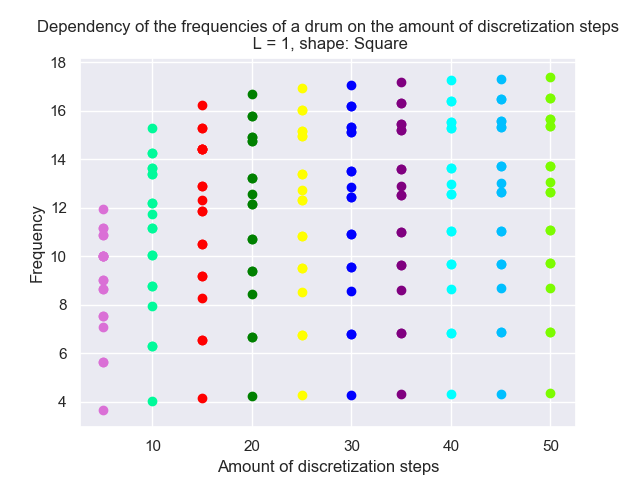
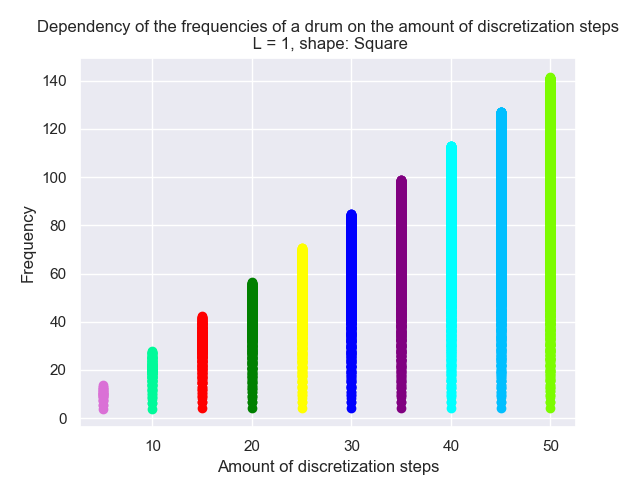
merging?

diff --git a/set3/diffusion.py b/set3/diffusion.py
@@ -13,10 +13,60 @@ def main():
     L = 4
     N = 40
 
-    M, circle = make_circle_matrix(N)
-    beginstate = initial_conditions(N)
+    M, circle = make_circle_matrix(L, N)
+    beginstate, vector_b = initial_conditions(N)
 
-def make_circle_matrix(N, L):
+    plt.imshow(beginstate, origin='lower')
+    plt.grid(False)
+    plt.colorbar()
+    plt.show()
+
+    # use standing vector
+    vector_c = sp.linalg.solve(M, vector_b.T)
+
+    # reshape vector_c
+    end_state = np.reshape(vector_b, (N, N))
+
+    print(end_state)
+
+    # show endstate
+    plt.imshow(end_state, origin='lower')
+    plt.grid(False)
+    plt.colorbar()
+    plt.show()
+
+def make_square_matrix(L, N):
+    """ This is a function that makes the matrix of a square. """
+    dimension = N**2
+    M = np.zeros((dimension, dimension))
+    dx = (L/N)
+
+    outer_diagonal = N
+    inner_diagonal = 1
+
+    for i in range(dimension):
+        try:
+            M[outer_diagonal, i] = 1 * (1/dx**2)
+            M[i, outer_diagonal] = 1 * (1/dx**2)
+        except IndexError:
+            pass
+
+        try:
+            if not inner_diagonal % N == 0:
+                M[inner_diagonal, i] = 1 * (1/dx**2)
+                M[i, inner_diagonal] = 1 * (1/dx**2)
+        except IndexError:
+            pass
+
+        outer_diagonal += 1
+        inner_diagonal += 1
+
+    np.fill_diagonal(M, -4 * (1/dx**2))
+
+    return M
+
+
+def make_circle_matrix(L, N):
     radius = L/2
 
     circle = np.zeros((N,N))
@@ -30,6 +80,7 @@ def make_circle_matrix(N, L):
 
             if distance < radius:
                 circle[i, j] = 1
+                
     print(circle)
     M = make_square_matrix(L, N)
 
@@ -42,16 +93,21 @@ def make_circle_matrix(N, L):
         if circle[row, column] == 0:
             for j in range(len(M)):
                 if not i == j:
-                    M[i, j] = 1
+                    M[i, j] = 0
+
     print(M)
     return M, circle
 
-def initial_conditions():
+def initial_conditions(N):
     # start at 6, 12
     conc_matrix = np.zeros((N,N))
     conc_matrix[6, 12] = 1
 
-    return conc_matrix
+    vector_b = np.reshape(conc_matrix, (1, N*N))
+
+    print(vector_b)
+
+    return conc_matrix, vector_b
 
 if __name__ == '__main__':
     main()

diff --git a/set3/drum_frequencies.py b/set3/drum_frequencies.py
@@ -34,6 +34,8 @@ def main():
 def f_dependence_on_L(lengths, colors, shape):
     """ dependence of frequency on length of drum """
 
+    fig = plt.figure()
+
     for i, L in enumerate(lengths):
         print(i, L)
         # amount of discretization steps
@@ -76,6 +78,8 @@ def f_dependence_on_N(disc_steps, colors, shape):
     """ Dependency of frequency on amount of discretization steps """
     L = 1
 
+    fig = plt.figure()
+
     ###### dependence of frequencie on length of drum
     for i, N in enumerate(disc_steps):
         print(i, N)
@@ -114,7 +118,7 @@ def f_dependence_on_N(disc_steps, colors, shape):
 def frequencies(eigenvalues):
     """ Plot all frequencies for the length of a certain drum. """
 
-    frequencies = [math.sqrt(abs(eigenvalue)) for eigenvalue in eigenvalues[:20]]
+    frequencies = [math.sqrt(abs(eigenvalue)) for eigenvalue in eigenvalues]
 
     return frequencies
 

diff --git a/set3/drums.py b/set3/drums.py
@@ -17,7 +17,7 @@ sns.set()
 def main():
     L = 1
     # amount of discretization steps
-    N = 20 * L
+    N = 21 * L
     # N = 5
 
     # shape can be "Square", "Rectangle" or "Circle"
@@ -50,10 +50,10 @@ def main():
 
     # plot the 10 first modes
     eigenmodes = find_eigenmodes(eigenvectors, eigenvalues, shape, width, height)
-    graph_surfaces(eigenmodes, L, width, height, shape)
+    # graph_surfaces(eigenmodes, L, width, height, shape)
 
     # make animation
-    # show_animation(eigenmodes, shape, circle)
+    show_animation(eigenmodes, shape, circle)
 
 def find_eigenvalues(M):
     """ Calculate the eigenvalues and corresponding eigenvectors
